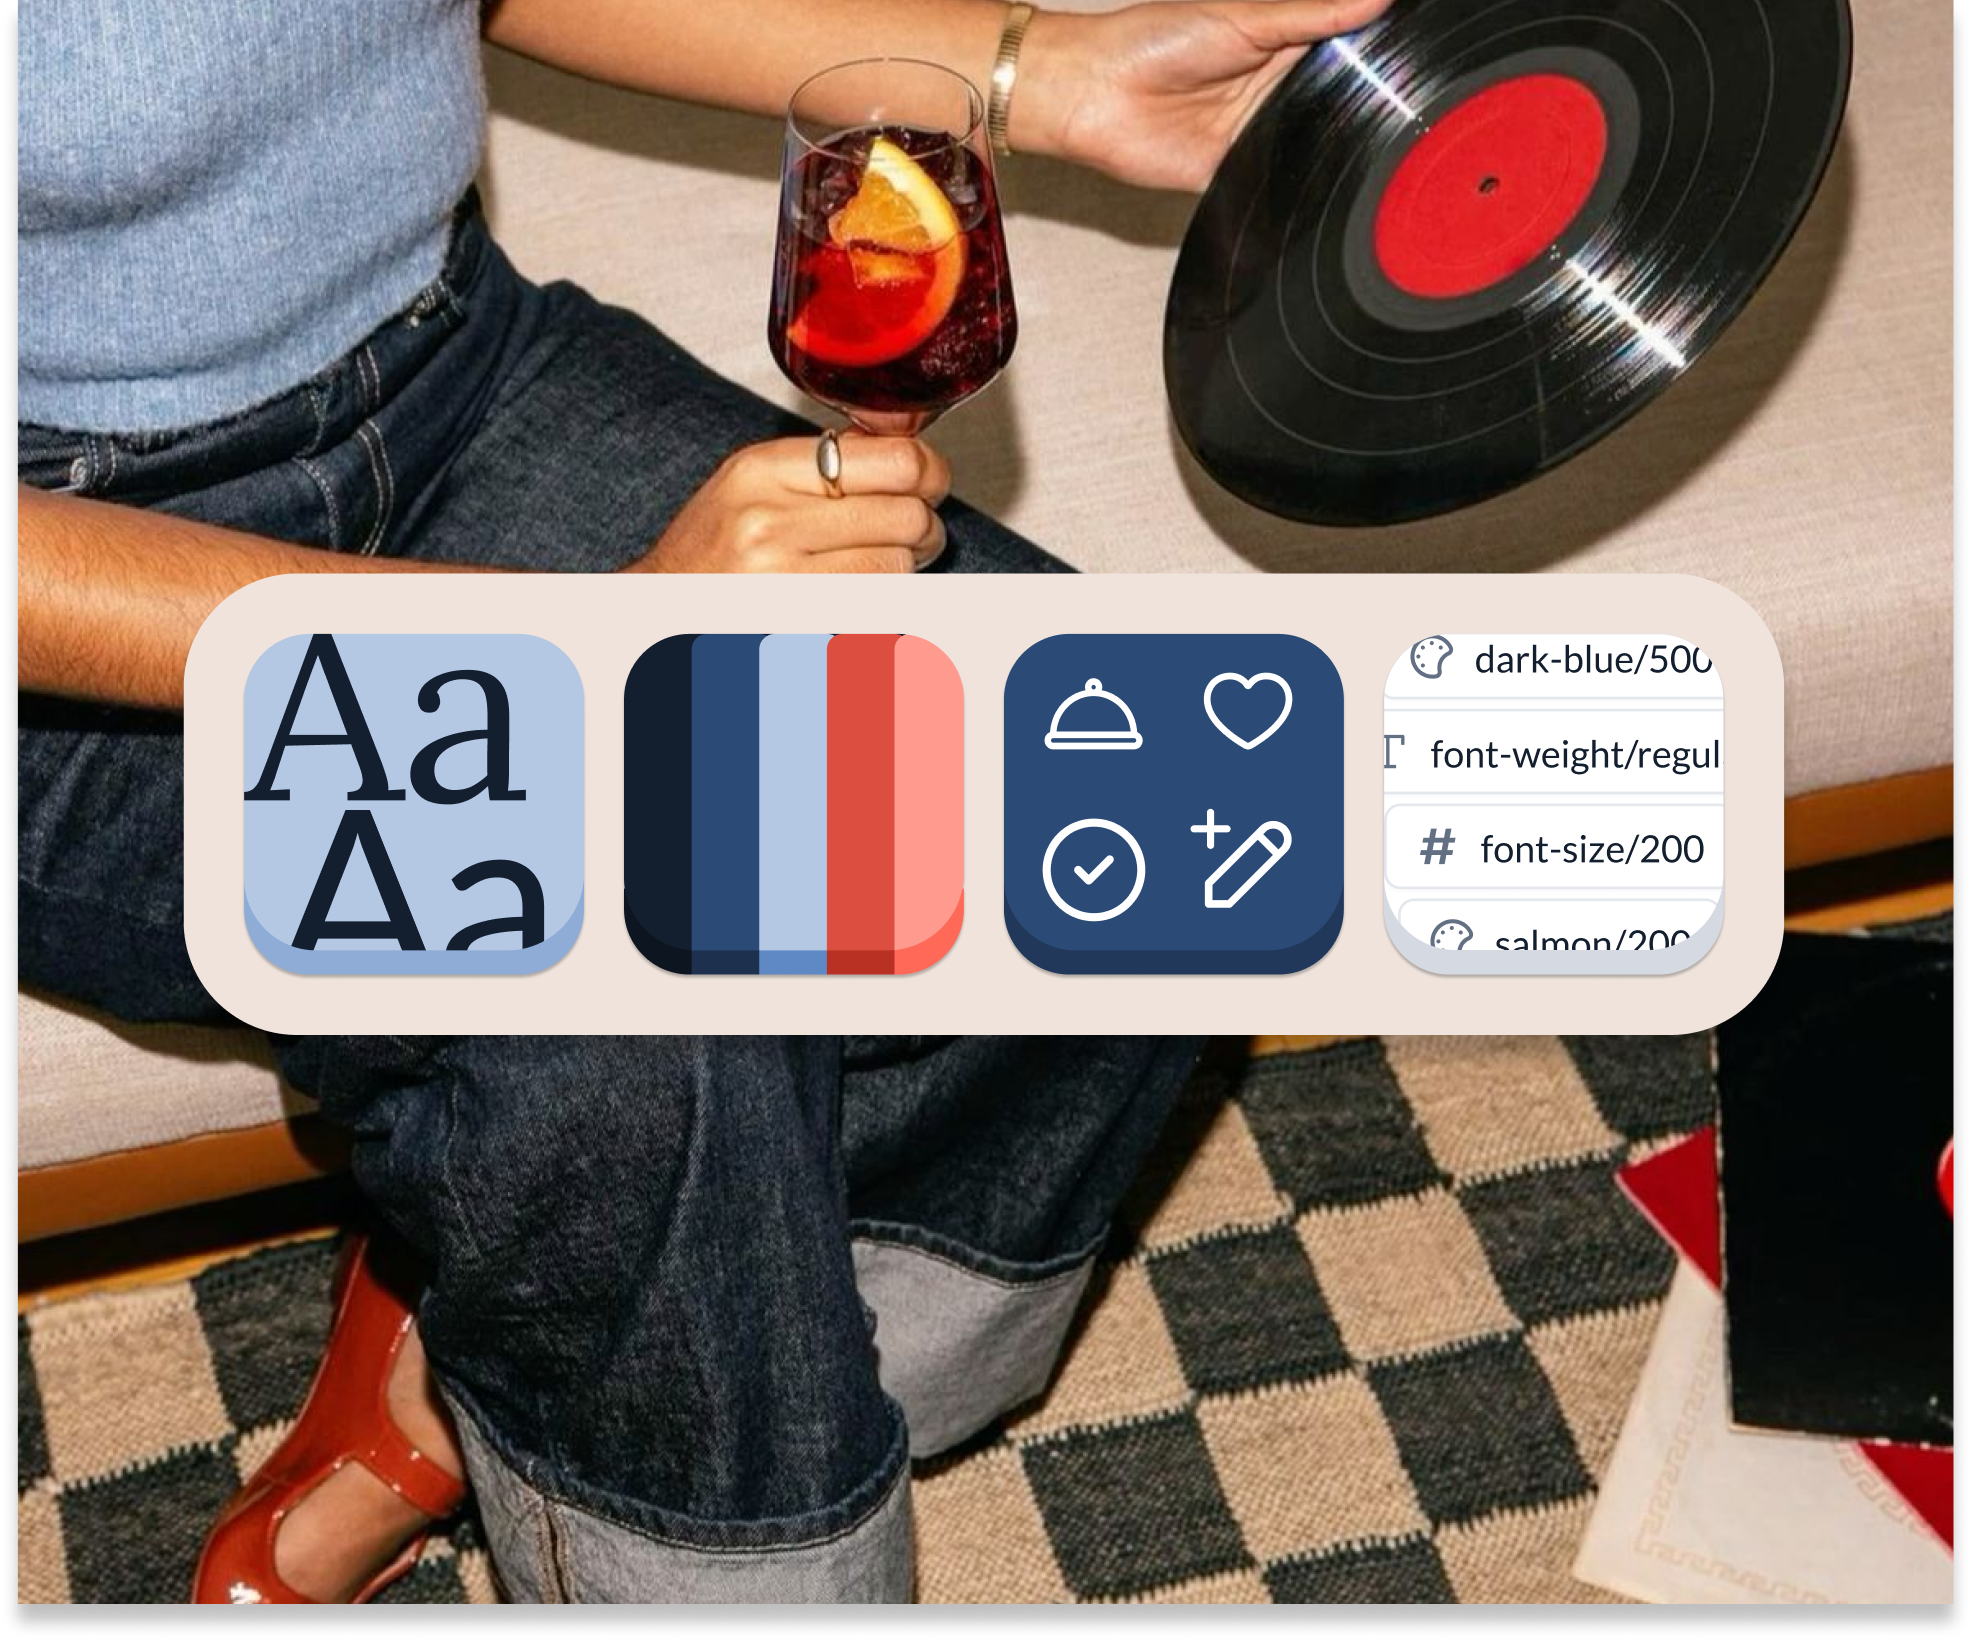
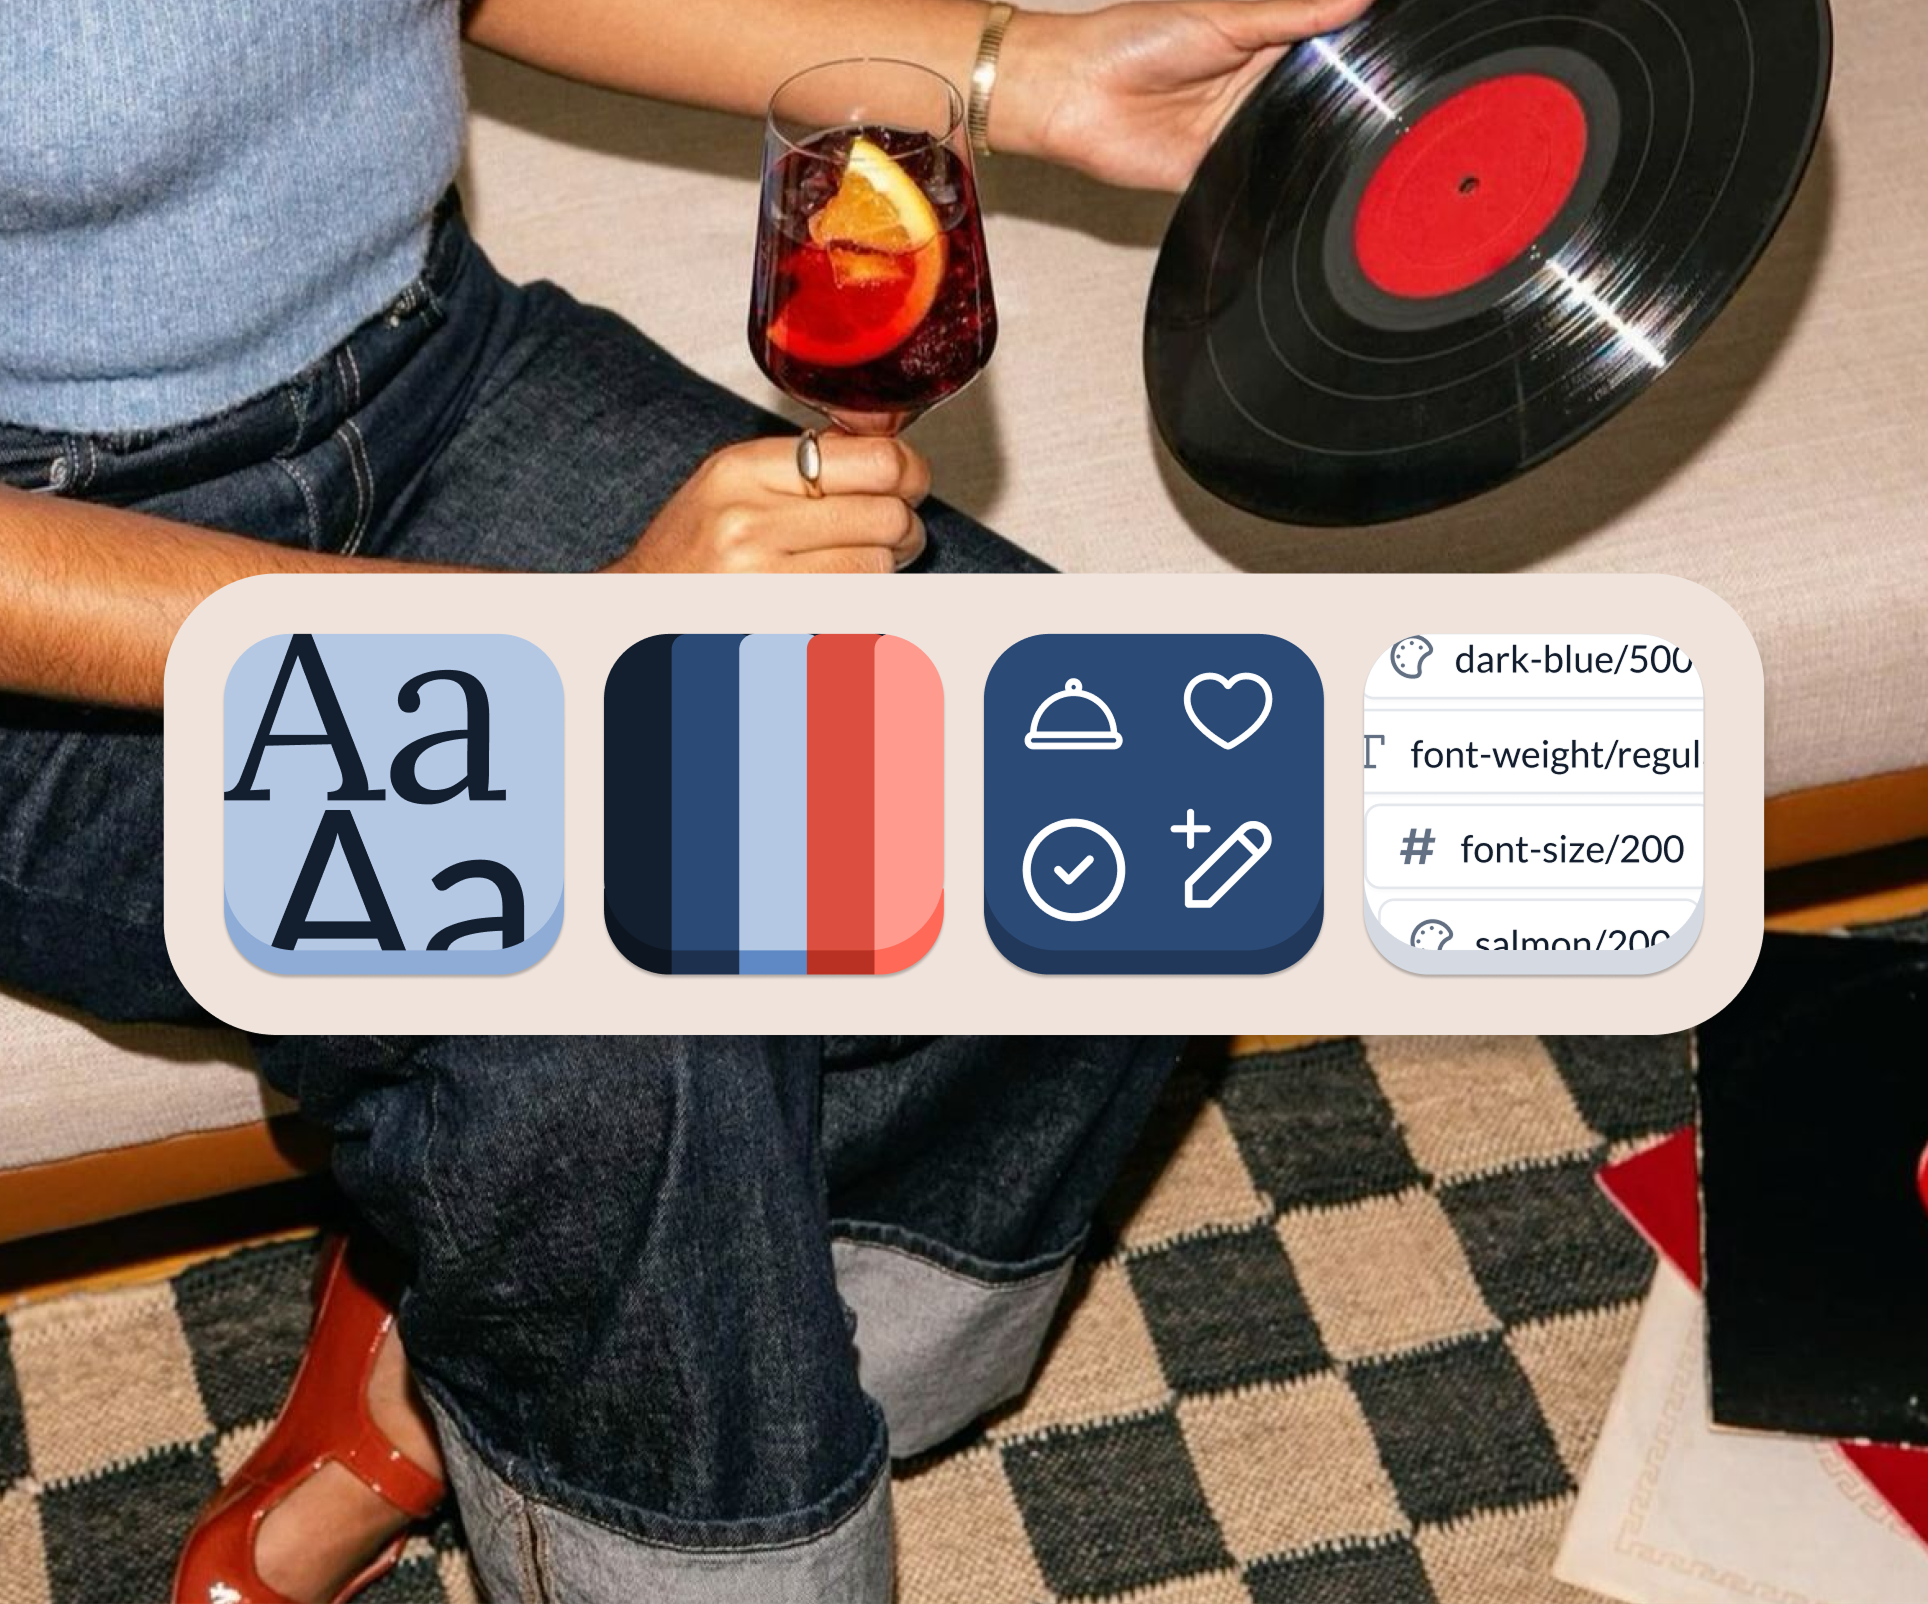
Update design system card image and revert DS card CSS

diff --git a/styles.css b/styles.css
@@ -152,8 +152,9 @@
   .card {
     position: absolute;
     cursor: grab;
-    transition: box-shadow 0.2s ease;
     border-radius: 40px;
+    box-shadow: 0 8px 24px rgba(0,0,0,0.10), 0 2px 6px rgba(0,0,0,0.06);
+    transition: box-shadow 0.2s ease;
   }
   .card:active { cursor: grabbing; }
   .card.is-hovered { z-index: 50 !important; }
@@ -234,6 +235,11 @@
   cursor: pointer;
   white-space: nowrap;
   user-select: none;
+  transition: background 0.2s ease, color 0.2s ease;
+}
+.bio-multiply-wrap:hover .bio-multiply-btn {
+  background: #000;
+  color: var(--white);
 }
 
 /* =============================================
@@ -243,6 +249,7 @@
   position: absolute;
   user-select: none;
   cursor: grab;
+  filter: drop-shadow(0 6px 16px rgba(0,0,0,0.15));
 }
 .cat-drop:active { cursor: grabbing; }
 .cat-drop img {
@@ -252,6 +259,10 @@
   display: block;
   -webkit-user-drag: none;
 }
+
+#card-3 { box-shadow: none !important; }
+#card-2 { box-shadow: none !important; }
+#card-2 .ds-card-img { box-shadow: none !important; filter: none !important; }
 
 .card-wip {
   background: transparent;
@@ -273,12 +284,15 @@
   border-radius: 40px;
   overflow: hidden;
   padding: 0;
+  position: relative;
 }
 .ds-card-img {
+  position: absolute;
+  inset: 0;
   width: 100%;
   height: 100%;
   object-fit: cover;
-  object-position: center;
+  object-position: center top;
   display: block;
 }
   
